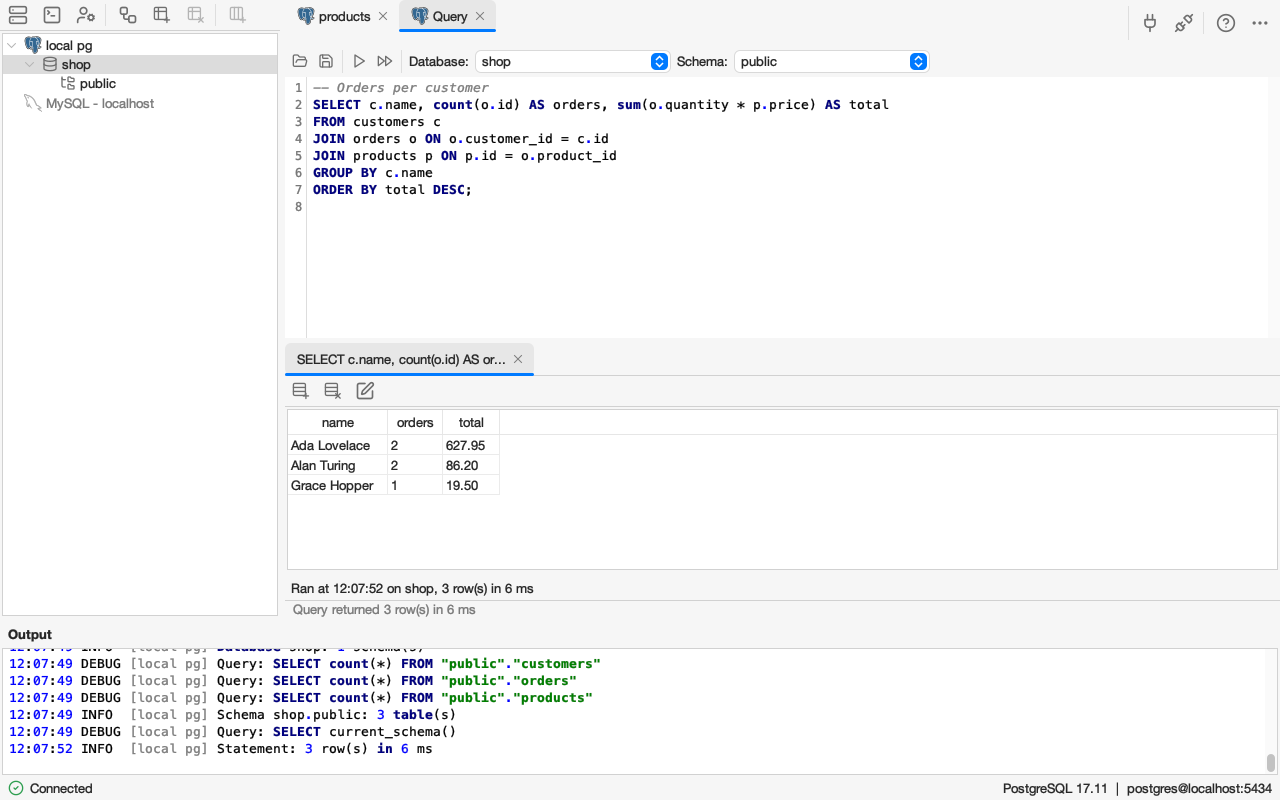
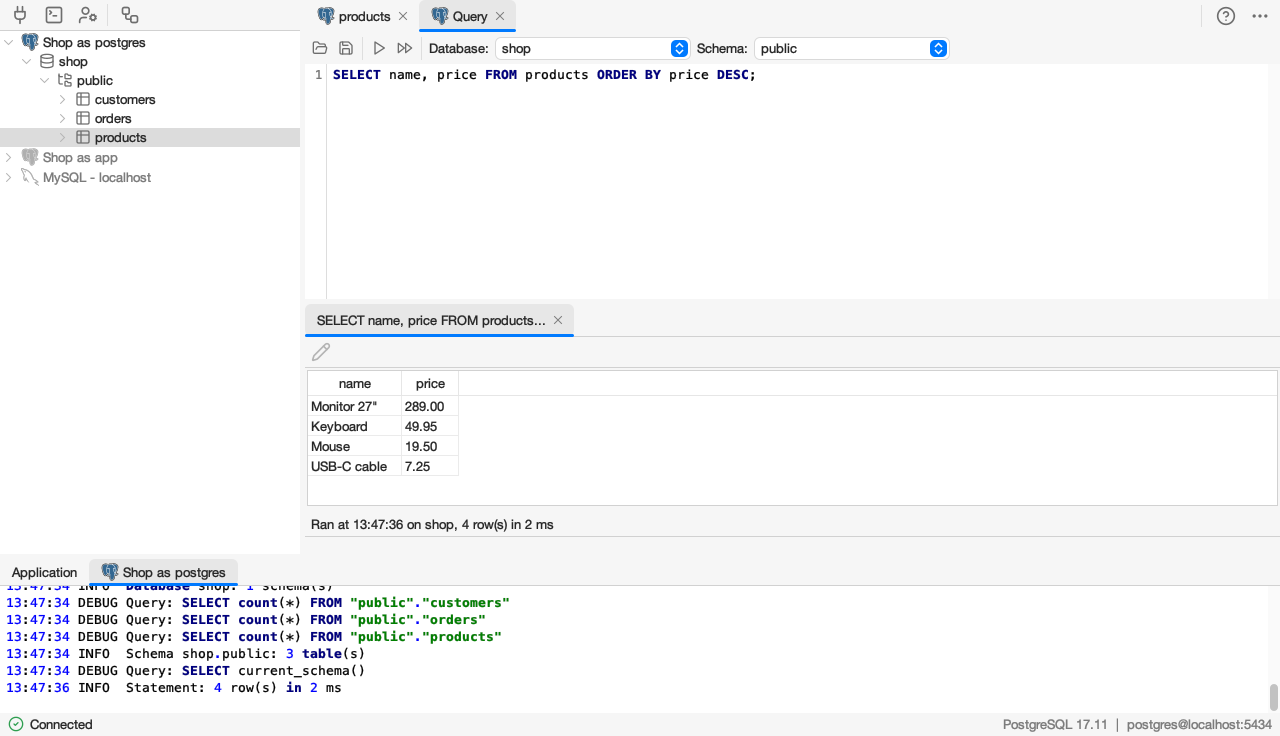
fix(query): one status line per result, retake screenshots
The bar below a query tab no longer repeats "Query returned n row(s)": the
result tab's own line has the time, database, rows and duration. The bar
shows Running..., a failed statement, or the count of statements when some
returned no rows (QueryController.summary). docs/screenshot.png and
docs/query.png retaken with the output tabs and the lazy explorer.

Claude-Session: https://claude.ai/code/session_01TpgfMUNA4K1qpyx5mWFodg

diff --git a/src/main/java/nl/errorsoft/esql/query/control/QueryController.java b/src/main/java/nl/errorsoft/esql/query/control/QueryController.java
@@ -196,8 +196,8 @@ public class QueryController implements SchemaNames {
 	}
 
 	/**
-	 * Runs the statements in order on a virtual thread and stops at the first that fails. The outcome of each goes to the log, the total or the failing
-	 * statement to the status bar; {@code done} gets the results on the event thread.
+	 * Runs the statements in order on a virtual thread and stops at the first that fails. The outcome of each goes to the log and a result tab, "Running...", the failing
+	 * statement or the count of statements without rows to the status bar; {@code done} gets the results on the event thread.
 	 */
 	public void run(List<String> statements, Component parent, Consumer<RunResult> done) {
 		connectionWindowController.setStatusDetail(parent, "Running " + (statements.size() == 1 ? "statement" : statements.size() + " statements") + "...");
@@ -231,7 +231,6 @@ public class QueryController implements SchemaNames {
 		}
 
 		List<StatementResult> results = new ArrayList<>();
-		StatementResult last = null;
 		long start = System.nanoTime();
 
 		for (int i = 0; i < statements.size(); i++) {
@@ -245,9 +244,9 @@ public class QueryController implements SchemaNames {
 				switch (queries.execute(sql)) {
 					case ExecutionResult.Rows rows -> {
 						long millis = millisSince(started);
-						last = new StatementResult(sql.strip(), rows.result(), ranAt, currentDatabase(), millis);
-						results.add(last);
-						log.info("{}: {} row(s) in {} ms", which, last.rowCount(), millis);
+						StatementResult result = new StatementResult(sql.strip(), rows.result(), ranAt, currentDatabase(), millis);
+						results.add(result);
+						log.info("{}: {} row(s) in {} ms", which, result.rowCount(), millis);
 					}
 					case ExecutionResult.DatabaseChanged changed -> log.info("{}: {} changed to {}", which, databaseTerm(), changed.database());
 					case ExecutionResult.Updated updated -> log.info("{}: {} row(s) affected in {} ms", which, updated.count(), millisSince(started));
@@ -260,11 +259,17 @@ public class QueryController implements SchemaNames {
 			}
 		}
 
-		String summary = statements.size() == 1 && last != null
-			? "Query returned " + last.rowCount() + " row(s) in " + millisSince(start) + " ms"
-			: statements.size() + " statement(s) executed in " + millisSince(start) + " ms";
+		String summary = summary(statements.size(), results.size(), millisSince(start));
 		SwingUtilities.invokeLater(() -> connectionWindowController.setStatusDetail(parent, summary));
 		return new RunResult(results, true);
+	}
+
+	/**
+	 * What the bar below the query tab says after a successful run. A statement with rows has its own line on its result tab (time, database, rows,
+	 * duration), so the bar does not repeat it and stays empty when every statement had rows; otherwise it says how many statements ran.
+	 */
+	static String summary(int statements, int withRows, long millis) {
+		return withRows == statements ? "" : statements + " statement(s) executed in " + millis + " ms";
 	}
 
 	private static void report(Component parent, String action, Exception e) {

diff --git a/src/test/java/nl/errorsoft/esql/query/control/QuerySummaryTest.java b/src/test/java/nl/errorsoft/esql/query/control/QuerySummaryTest.java
@@ -1,0 +1,20 @@
+package nl.errorsoft.esql.query.control;
+
+import static org.junit.jupiter.api.Assertions.assertEquals;
+
+import org.junit.jupiter.api.Test;
+
+/** The bar below a query tab does not repeat what the line of a result tab already says. */
+class QuerySummaryTest {
+	@Test
+	void statementsWithRowsLeaveTheBarEmpty() {
+		assertEquals("", QueryController.summary(1, 1, 5));
+		assertEquals("", QueryController.summary(3, 3, 12));
+	}
+
+	@Test
+	void statementsWithoutRowsAreCounted() {
+		assertEquals("1 statement(s) executed in 4 ms", QueryController.summary(1, 0, 4));
+		assertEquals("3 statement(s) executed in 9 ms", QueryController.summary(3, 1, 9));
+	}
+}

diff --git a/README.md b/README.md
@@ -71,7 +71,7 @@ Each database has its own dialect (`nl.errorsoft.esql.dialect`) that decides how
 | Brand icons of the servers, the eSQL logo as window and Dock icon | yes | yes | yes | yes |
 | In-app help: the Markdown pages of docs/ in a help tab of its own | yes | yes | yes | yes |
 
-The SQL query opens as a tab of the connection window ("Query", "Query 2", ...). Every statement that returns rows gets its own result tab below the editor, named after the statement (hover for the full text), with when it ran, on which database, the row count and the time taken; the newest is in front and at most 20 are kept. The bar below the tabs shows the message of the tab in front (a query's outcome, the rows loaded on the table data) and is empty for a tab without one, such as a fresh query tab. The tab in front has a darker background and a coloured underline. Shortcuts in the editor: Cmd+Enter (Ctrl+Enter on Windows and Linux) runs the selection or the statement at the caret, Cmd+Shift+Enter runs all statements in order and stops at the first error; Ctrl+Space, Cmd+Space and Cmd+Shift+Space (Ctrl+Shift+Space elsewhere) open the completion, typing a period after a table or alias opens its columns. macOS gives Cmd+Space to Spotlight; turn that shortcut off in System Settings > Keyboard > Keyboard Shortcuts > Spotlight to use it for completion.
+The SQL query opens as a tab of the connection window ("Query", "Query 2", ...). Every statement that returns rows gets its own result tab below the editor, named after the statement (hover for the full text), with when it ran, on which database, the row count and the time taken; the newest is in front and at most 20 are kept. The bar below the tabs shows the message of the tab in front (on a query tab only "Running...", a failed statement or the count of statements without rows, since each result tab has its own line; the rows loaded on the table data) and is empty for a tab without one, such as a fresh query tab. The tab in front has a darker background and a coloured underline. Shortcuts in the editor: Cmd+Enter (Ctrl+Enter on Windows and Linux) runs the selection or the statement at the caret, Cmd+Shift+Enter runs all statements in order and stops at the first error; Ctrl+Space, Cmd+Space and Cmd+Shift+Space (Ctrl+Shift+Space elsewhere) open the completion, typing a period after a table or alias opens its columns. macOS gives Cmd+Space to Spotlight; turn that shortcut off in System Settings > Keyboard > Keyboard Shortcuts > Spotlight to use it for completion.
 
 The explorer on the left holds every open connection, named after its profile, and the saved profiles in grey (double click to connect). Every view opens as a tab on the right, the output panel across the bottom has an Application tab and a log tab per connection, each with Cmd/Ctrl+F to find text. Disconnecting closes the tabs of that connection and keeps its designers open. Selecting a node in the explorer only selects it; expanding it loads what is below it. Buttons and menu items that cannot run yet are disabled with a tooltip saying what is needed, those the server never offers are hidden. The table list of a database or schema (Show tables) has a toolbar for adding, opening, editing, dropping and maintaining its tables, several at once where that makes sense. Right click a connection, database, table or column in the explorer for its context menu. It only lists what the server supports: Users, Process list, Status and Variables on the server, Open in designer, Export, Import and Properties on a database, Edit, Indexes, Rename, Duplicate, Properties and the maintenance commands (Optimize and Analyze, plus Check and Repair on MySQL) on a table.
 

diff --git a/CLAUDE.md b/CLAUDE.md
@@ -70,7 +70,7 @@ Java Swing database manager (originally an Errorsoft graduation project, 2002-20
 * `ui.editor.FindBar.install(area, host)` puts a find bar at the bottom of a `BorderLayout` host and binds menu key+F: RSyntaxTextArea's `SearchEngine`/`SearchContext` (mark all, wrap), Enter next, Shift+Enter previous, Match case, Esc and the cross close it and return the focus to the text; "n of m"/"No results" comes from the pure `FindMatches`. The output tabs and the query editor use it.
 * The output panel does not wrap lines (re-wrapping a long log made resizing slow), keeps at most 200000 characters per tab, and the split pane uses continuous layout with `resizeWeight` 1.0.
 * FlatLaf defaults of the application are set centrally in `settings.Appearance` as FlatLaf global extra defaults, so they follow the theme and survive a change of look and feel: thin flat split pane dividers, and a selected tab with a darker background and the accent underline also without focus. A tab that is opened is always put in front (`setSelectedComponent`). Split panes have no one-touch arrows.
-* The status bar of the application shows the state with its light on the left and the server and account of the active connection on the right (`ConnectionWindowController.showStatusInfo`). Activating a work window or selecting a node of a connection calls `ConnectionWindowController.activate`. What a view did last is shown in the bar at the bottom of its `WorkFrame` (`ConnectionView.setStatus`): `ConnectionWindowController.setViewStatus` (a table loaded, a table list shown) gives it to the view tab (table data or list), tree actions (`setStatusDetail(text)`: schemas listed or created, opened in the designer) go to the output panel only, `setStatus(tab, text)` (`ConnectionWindowController.setStatusDetail(tab, ...)`, used by `QueryController` for its query tab) to a given window; a window without a message of its own (a fresh query or editor) leaves the bar empty; the paging buttons of the table data (`TableDataTab.getNavigationBar`) sit in the same bar.
+* The status bar of the application shows the state with its light on the left and the server and account of the active connection on the right (`ConnectionWindowController.showStatusInfo`). Activating a work window or selecting a node of a connection calls `ConnectionWindowController.activate`. What a view did last is shown in the bar at the bottom of its `WorkFrame` (`ConnectionView.setStatus`): `ConnectionWindowController.setViewStatus` (a table loaded, a table list shown) gives it to the view tab (table data or list), tree actions (`setStatusDetail(text)`: schemas listed or created, opened in the designer) go to the output panel only, `setStatus(tab, text)` (`ConnectionWindowController.setStatusDetail(tab, ...)`, used by `QueryController` for its query tab) to a given window. A query tab's bar never repeats a result: each result tab has its own line (time, database, rows, duration), so the bar says only "Running...", the failed statement, or the count of statements when some returned no rows (`QueryController.summary`, empty when every statement had rows); a window without a message of its own (a fresh query or editor) leaves the bar empty; the paging buttons of the table data (`TableDataTab.getNavigationBar`) sit in the same bar.
 
 ### Logging and output
 

diff --git a/docs/getting-started.md b/docs/getting-started.md
@@ -47,5 +47,5 @@ Several connections can be open at the same time. They all appear in the explore
 
 ## Status bars
 
-* The bar at the bottom of a tab shows its last message: on the table data how many rows were loaded and how long it took, on a query tab the outcome of its last run. A tab without a message of its own, such as a fresh query tab, leaves it empty. On the table data the paging buttons are in the same bar. What happens in the explorer (tables listed, a model opened in the designer) is in the output panel.
+* The bar at the bottom of a tab shows its last message: on the table data how many rows were loaded and how long it took, on a query tab "Running..." while statements run, the statement that failed, or how many statements ran when some returned no rows; a result has its own line with when it ran, the database, the rows and the time, which the bar does not repeat. A tab without a message of its own, such as a fresh query tab, leaves it empty. On the table data the paging buttons are in the same bar. What happens in the explorer (tables listed, a model opened in the designer) is in the output panel.
 * The status bar of the application shows a light for the state and, on the right, the server and account of the connection of the tab in front or of the node selected in the explorer.
